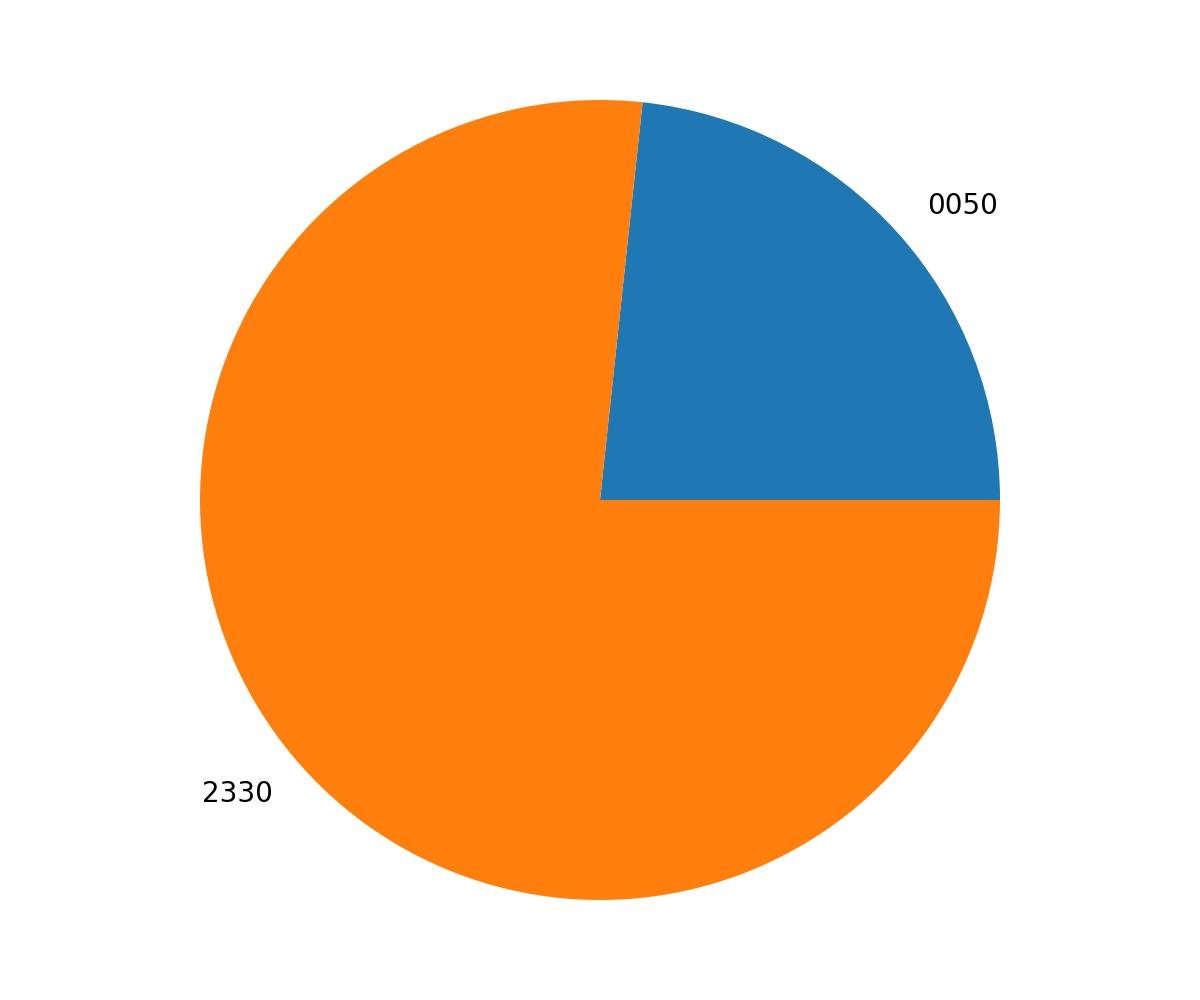
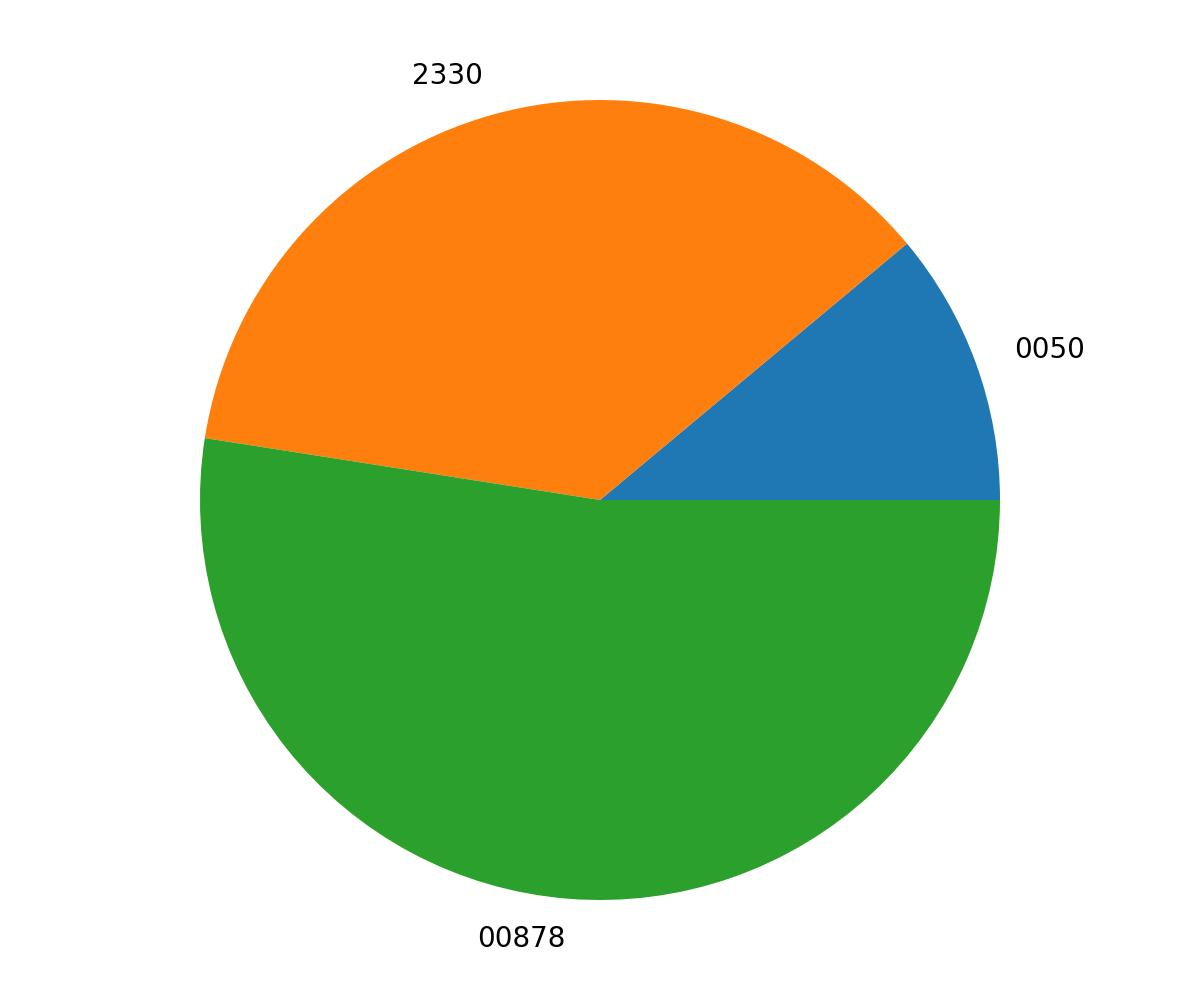
fix hte bug

diff --git a/templates/index.html b/templates/index.html
@@ -51,7 +51,7 @@
             <tr>
                 <th scope="col">股票代號</th>
                 <th scope="col">持有股數</th>
-                <th scope="col">目前股價</th>
+                <th scope="col">目前股價(即時)</th>
                 <th scope="col">目前市值</th>
                 <th scope="col">股票資產佔比(%)</th>
                 <th scope="col">購買總成本(包含手續費)</th>
@@ -77,14 +77,18 @@
 </div>
 
 <div id="chart" style="display: flex; flex-wrap: wrap;">
+    {% if data['show_pic_1']%}
     <figure style="flex:0 1 500px; margin: 10px">
         <figcaption>股票庫存佔比圖</figcaption>
         <img style="width: 100%" src="/static/piechart.jpg" alt="股票庫存佔比圖" />
     </figure>
+    {% endif %}
+    {% if data['show_pic_2']%}
     <figure style="flex:0 1 500px; margin: 10px">
         <figcaption>資產比例佔比圖</figcaption>
         <img style="width: 100%" src="/static/piechart2.jpg" alt="資產比例佔比圖" />
     </figure>
+    {% endif %}
 </div>
 
 {% endblock %}

diff --git a/index.py b/index.py
@@ -5,6 +5,7 @@ import math
 import matplotlib
 matplotlib.use('Agg')  # 设置matplotlib不使用任何GUI后端
 import matplotlib.pyplot as plt
+import os
 
 
 app = Flask(__name__)
@@ -89,6 +90,12 @@ def home():
         ax.pie(size, labels=labels, autopct = None, shadow=None)
         fig.subplots_adjust(top=1, bottom=0, right=1, left=0, hspace=0, wspace=0)
         plt.savefig("static/piechart.jpg", dpi=200) 
+    else:
+        try:
+            os.remove('static/piechart.jpg')
+        except:
+            pass
+        
         
     #繪製股票現金圓餅圖
     if us_dollars != 0 or taiwanese_dollars != 0 or total_stock_value != 0:
@@ -98,8 +105,15 @@ def home():
         ax.pie(size, labels=labels, autopct = None, shadow=None)
         fig.subplots_adjust(top=1, bottom=0, right=1, left=0, hspace=0, wspace=0)
         plt.savefig("static/piechart2.jpg", dpi=200) 
+    else:
+        try:
+            os.remove('static/piechart2.jpg')
+        except:
+            pass
     
-    data = {'total': total, 'currency': currency['USDTWD']['Exrate'], 'ud':us_dollars, 'td':taiwanese_dollars, 'cash_result': cash_result,'stock_info':stock_info}
+    data = { 'show_pic_1': os.path.exists('static/piechart.jpg'),
+            'show_pic_2': os.path.exists('static/piechart2.jpg'),
+        'total': total, 'currency': currency['USDTWD']['Exrate'], 'ud':us_dollars, 'td':taiwanese_dollars, 'cash_result': cash_result,'stock_info':stock_info}
     
     return render_template('index.html', data = data)
 

diff --git a/README.md b/README.md
@@ -2,6 +2,8 @@
 
 ## 理財網站python
 
+## API調用
+
 ![alt text](static/piechart.jpg)
 
 ![alt text](static/piechart2.jpg)
